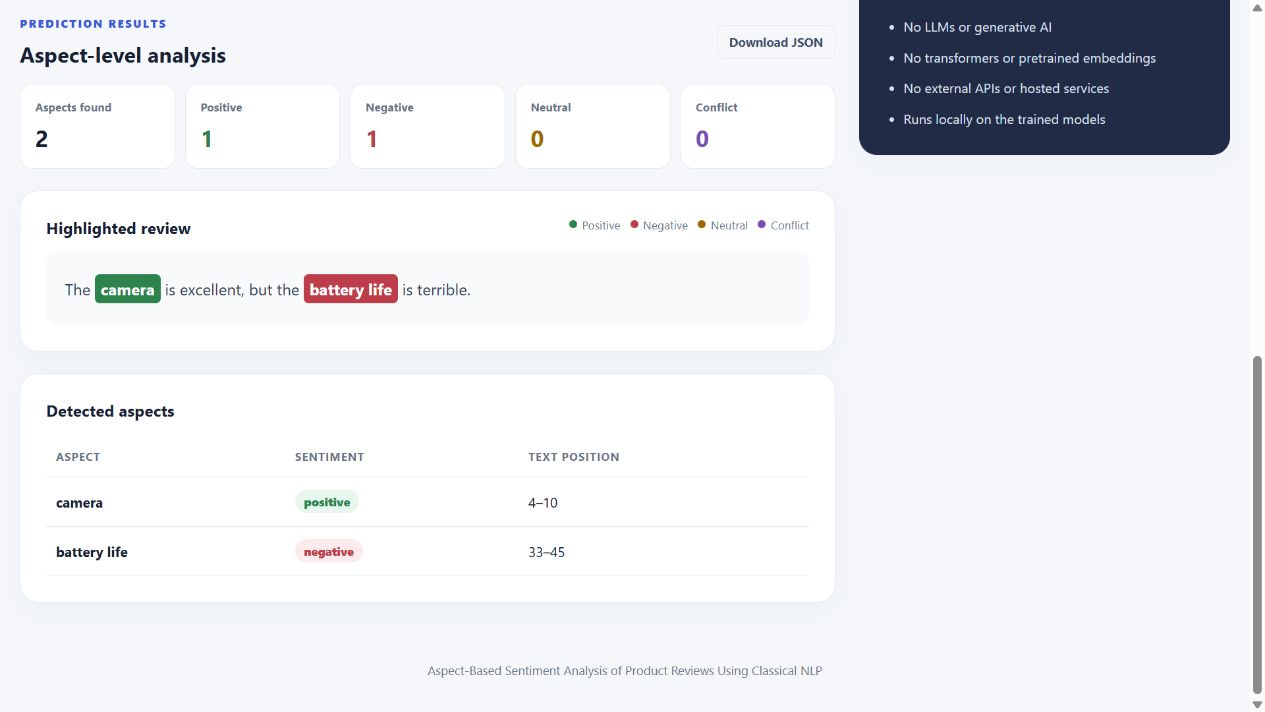
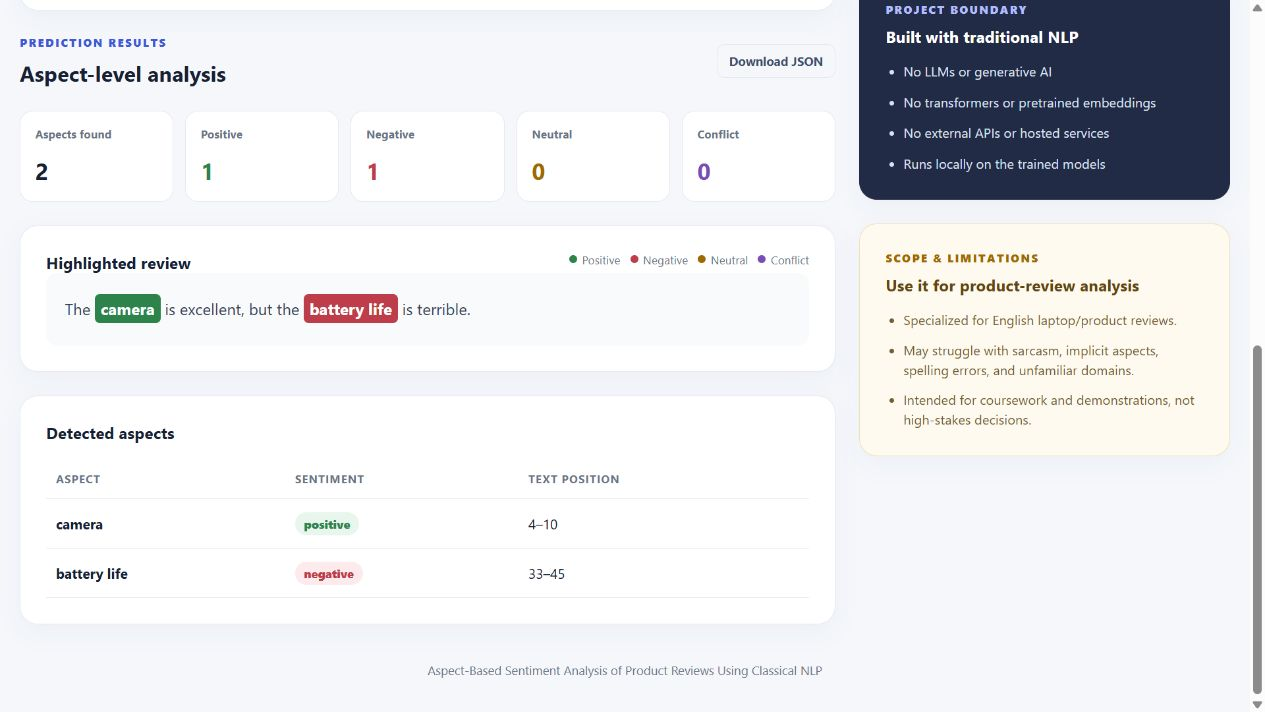
Show scope limitations in frontend

diff --git a/public/static/css/styles.css b/public/static/css/styles.css
@@ -62,6 +62,7 @@ textarea:focus { border-color: var(--primary); box-shadow: 0 0 0 3px rgba(54, 88
 .sentiment-pill { display: inline-block; padding: 4px 9px; border-radius: 999px; font-size: 0.74rem; font-weight: 800; }.sentiment-positive { color: var(--positive); background: #e7f6ed; }.sentiment-negative { color: var(--negative); background: #ffeaed; }.sentiment-neutral { color: var(--neutral); background: #fff5dc; }.sentiment-conflict { color: var(--conflict); background: #f1e9fb; }
 .information-card p:not(.eyebrow) { color: var(--muted); line-height: 1.65; font-size: 0.9rem; }.pipeline-step { display: flex; gap: 12px; padding: 16px 0; border-top: 1px solid var(--line); }.step-number { color: var(--primary); font-size: 0.72rem; font-weight: 800; }.pipeline-step strong { font-size: 0.86rem; }.pipeline-step p { margin: 4px 0 0; font-size: 0.79rem !important; line-height: 1.45 !important; }
 .boundary-card { background: #202b44; border-color: #202b44; }.boundary-card .eyebrow { color: #aebcff; }.boundary-card h3 { color: white; }.boundary-list { display: grid; gap: 11px; margin: 0; padding-left: 18px; color: #d9e0f0; font-size: 0.84rem; line-height: 1.5; }
+.limitations-card { background: #fffaf0; border-color: #f1dfb5; }.limitations-card .eyebrow { color: #a36a14; }.limitations-card h3 { color: #654515; }.limitations-list { display: grid; gap: 10px; margin: 0; padding-left: 18px; color: #765d35; font-size: 0.84rem; line-height: 1.5; }
 .site-footer { padding: 0 0 34px; color: var(--muted); font-size: 0.78rem; text-align: center; }
 @media (max-width: 880px) { .layout-grid { grid-template-columns: 1fr; }.side-column { display: grid; grid-template-columns: 1fr 1fr; }.metrics-grid { grid-template-columns: repeat(3, 1fr); } }
 @media (max-width: 600px) { .page-shell { width: min(100% - 24px, 1240px); }.site-header { display: block; padding-top: 30px; }.technology-badge { display: inline-block; margin-top: 18px; }.card { padding: 19px; }.side-column { display: flex; }.metrics-grid { grid-template-columns: repeat(2, 1fr); }.form-footer, .section-heading { align-items: flex-start; flex-direction: column; }.primary-button { width: 100%; justify-content: center; }.legend { margin-top: 4px; } }

diff --git a/frontend/templates/index.html b/frontend/templates/index.html
@@ -109,6 +109,16 @@
                         <li>No external APIs or hosted services</li><li>Runs locally on the trained models</li>
                     </ul>
                 </article>
+
+                <article class="card limitations-card">
+                    <p class="eyebrow">SCOPE &amp; LIMITATIONS</p>
+                    <h3>Use it for product-review analysis</h3>
+                    <ul class="limitations-list">
+                        <li>Specialized for English laptop/product reviews.</li>
+                        <li>May struggle with sarcasm, implicit aspects, spelling errors, and unfamiliar domains.</li>
+                        <li>Intended for coursework and demonstrations, not high-stakes decisions.</li>
+                    </ul>
+                </article>
             </aside>
         </main>
 

diff --git a/README.md b/README.md
@@ -91,7 +91,7 @@ Start it from the project root:
 python -m uvicorn app:app --reload
 ```
 
-Then open `http://127.0.0.1:8000`. The frontend accepts a product review, highlights detected aspects, displays aspect-level sentiment, and allows the results to be downloaded as JSON. See [docs/frontend_guide.md](docs/frontend_guide.md) for Vercel deployment instructions.
+Then open `http://127.0.0.1:8000`. The frontend accepts a product review, highlights detected aspects, displays aspect-level sentiment, shows the supported scope and limitations, and allows the results to be downloaded as JSON. See [docs/frontend_guide.md](docs/frontend_guide.md) for Vercel deployment instructions.
 
 ## Demo
 

diff --git a/CHANGELOG.md b/CHANGELOG.md
@@ -38,3 +38,5 @@ All notable project changes will be recorded here.
 - Added a dedicated README Demo section explaining how to try the live application.
 - Moved the verified live-demo link directly below the README Overview section for visibility.
 - Documented the project limitations, responsible-use boundary, and harmless dependency warning in the README.
+- Added a visible Scope & Limitations card to the frontend so users see the supported domain and responsible-use boundary while using the application.
+- Refreshed the committed frontend screenshots to show the new scope card and current layout.

diff --git a/docs/frontend_guide.md b/docs/frontend_guide.md
@@ -20,6 +20,7 @@ Open `http://127.0.0.1:8000` in a browser. The API documentation is available at
 - Aspect count and sentiment summary cards
 - Highlighted aspect terms in the original review
 - Aspect-level sentiment table with character positions
+- Visible project boundary and scope-limitations guidance
 - JSON download of the analysis results
 
 ## Application structure
